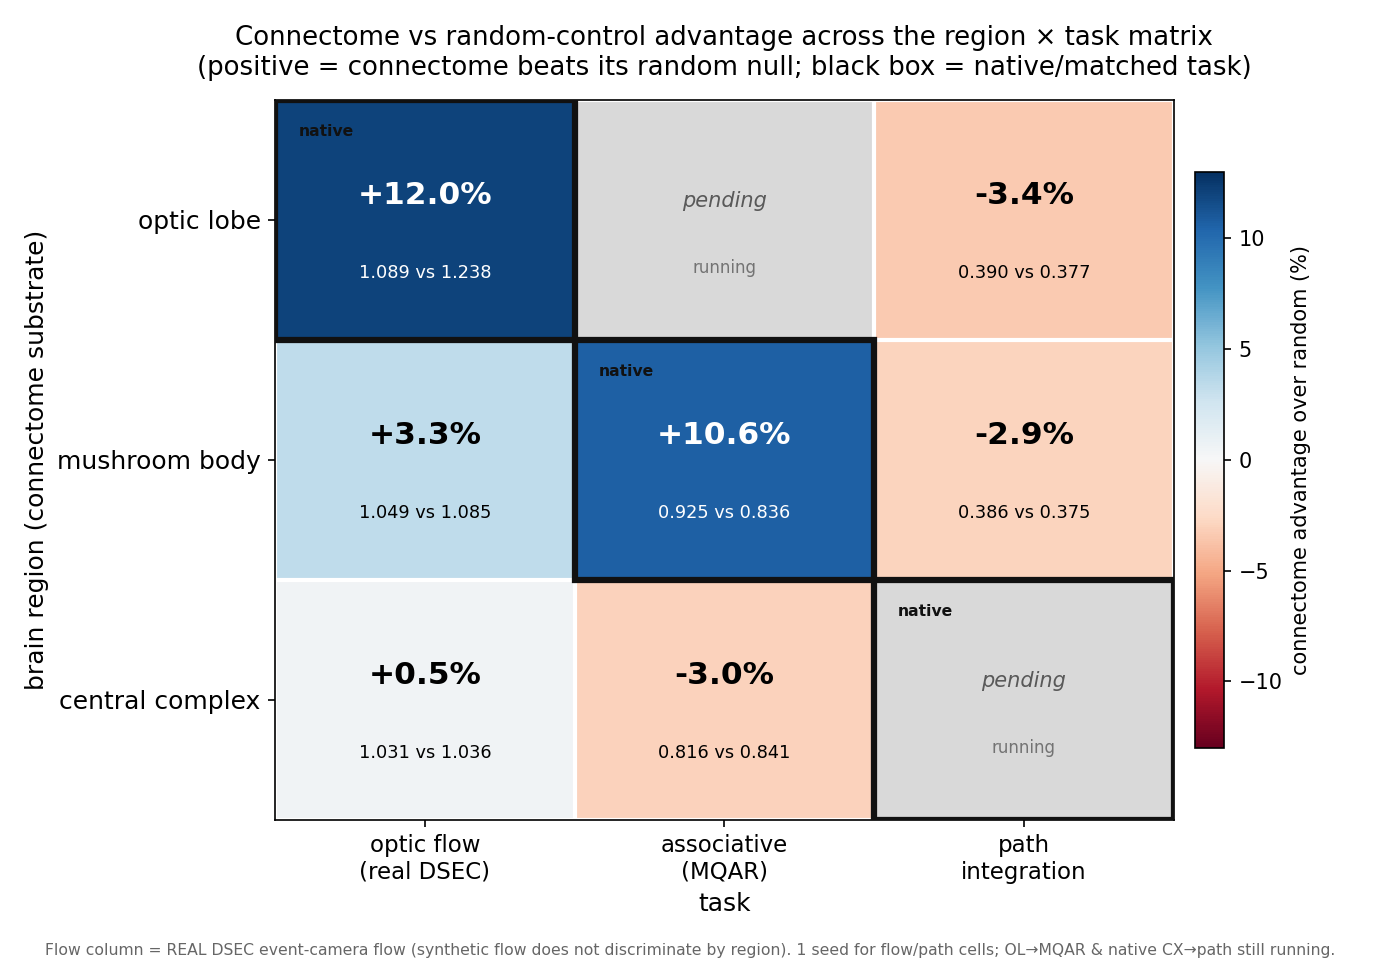
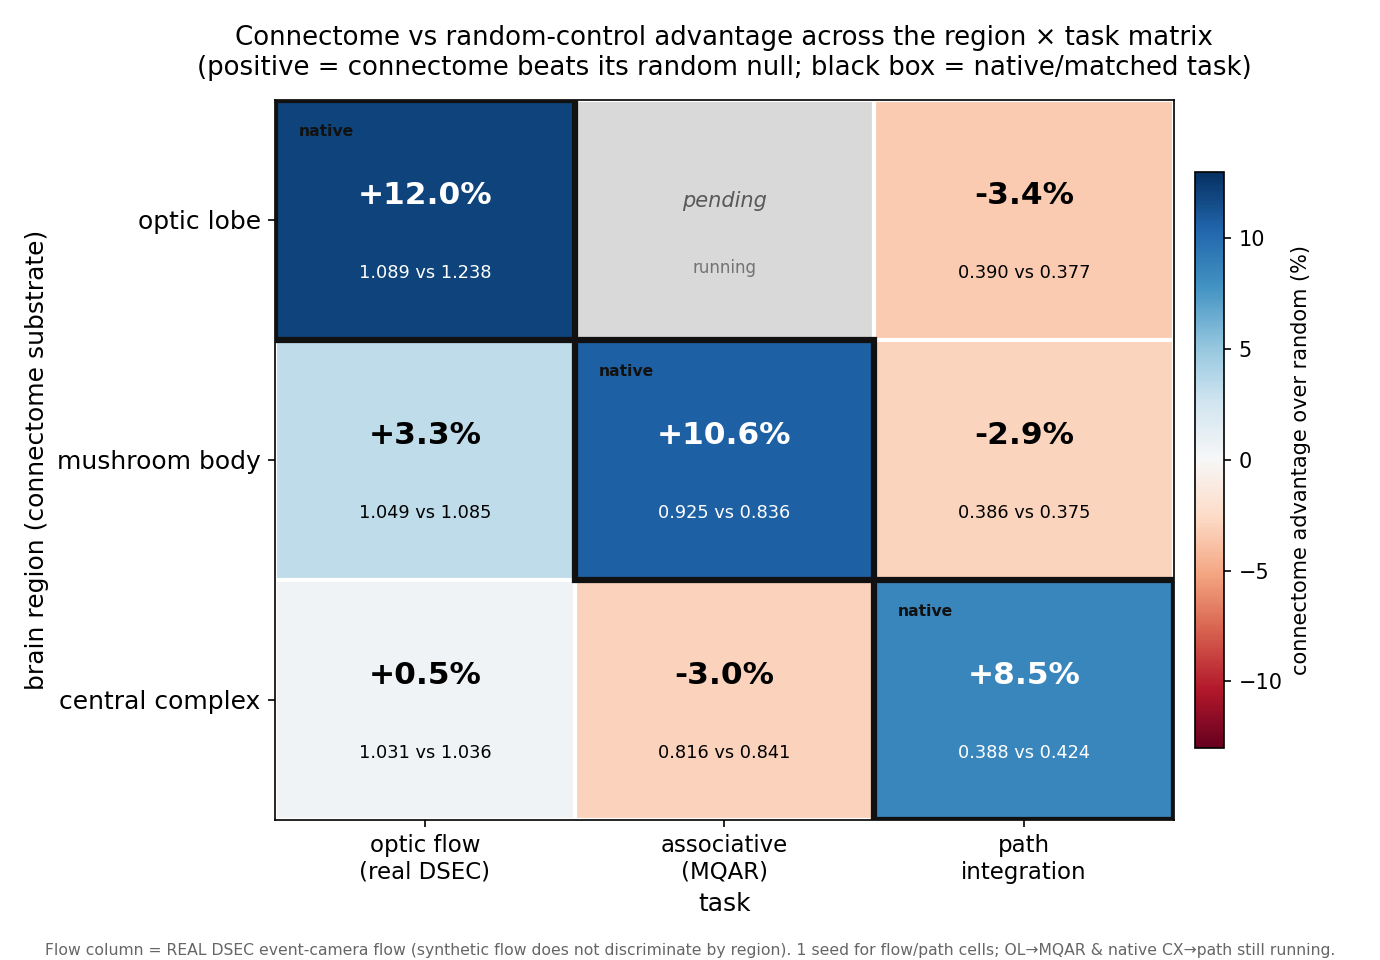
Heatmap: fill native CX->path cell (connectome +8.5% vs random)
All 3 native diagonal cells now positive: OL->flow +12.0%, MB->MQAR +10.6%,
CX->path +8.5% (connectome 0.388 vs random 0.424). Off-diagonal stays null/negative.
Only OL->MQAR remains pending.

Changed region(s): [[0.6232, 0.5938, 0.8725, 0.875]]

diff --git a/scripts/plot_region_task_heatmap.py b/scripts/plot_region_task_heatmap.py
@@ -28,7 +28,7 @@ CELLS = {
     ("mushroom body", 2): (-2.9, "0.386 vs 0.375", False),
     ("central complex", 0): (0.5, "1.031 vs 1.036", False),
     ("central complex", 1): (-3.0, "0.816 vs 0.841", False),
-    ("central complex", 2): (None, "running", True),        # native path (consistent run pending)
+    ("central complex", 2): (8.5, "0.388 vs 0.424", True),  # native path (connectome beats random)
 }
 
 nR, nT = len(REGIONS), len(TASKS)